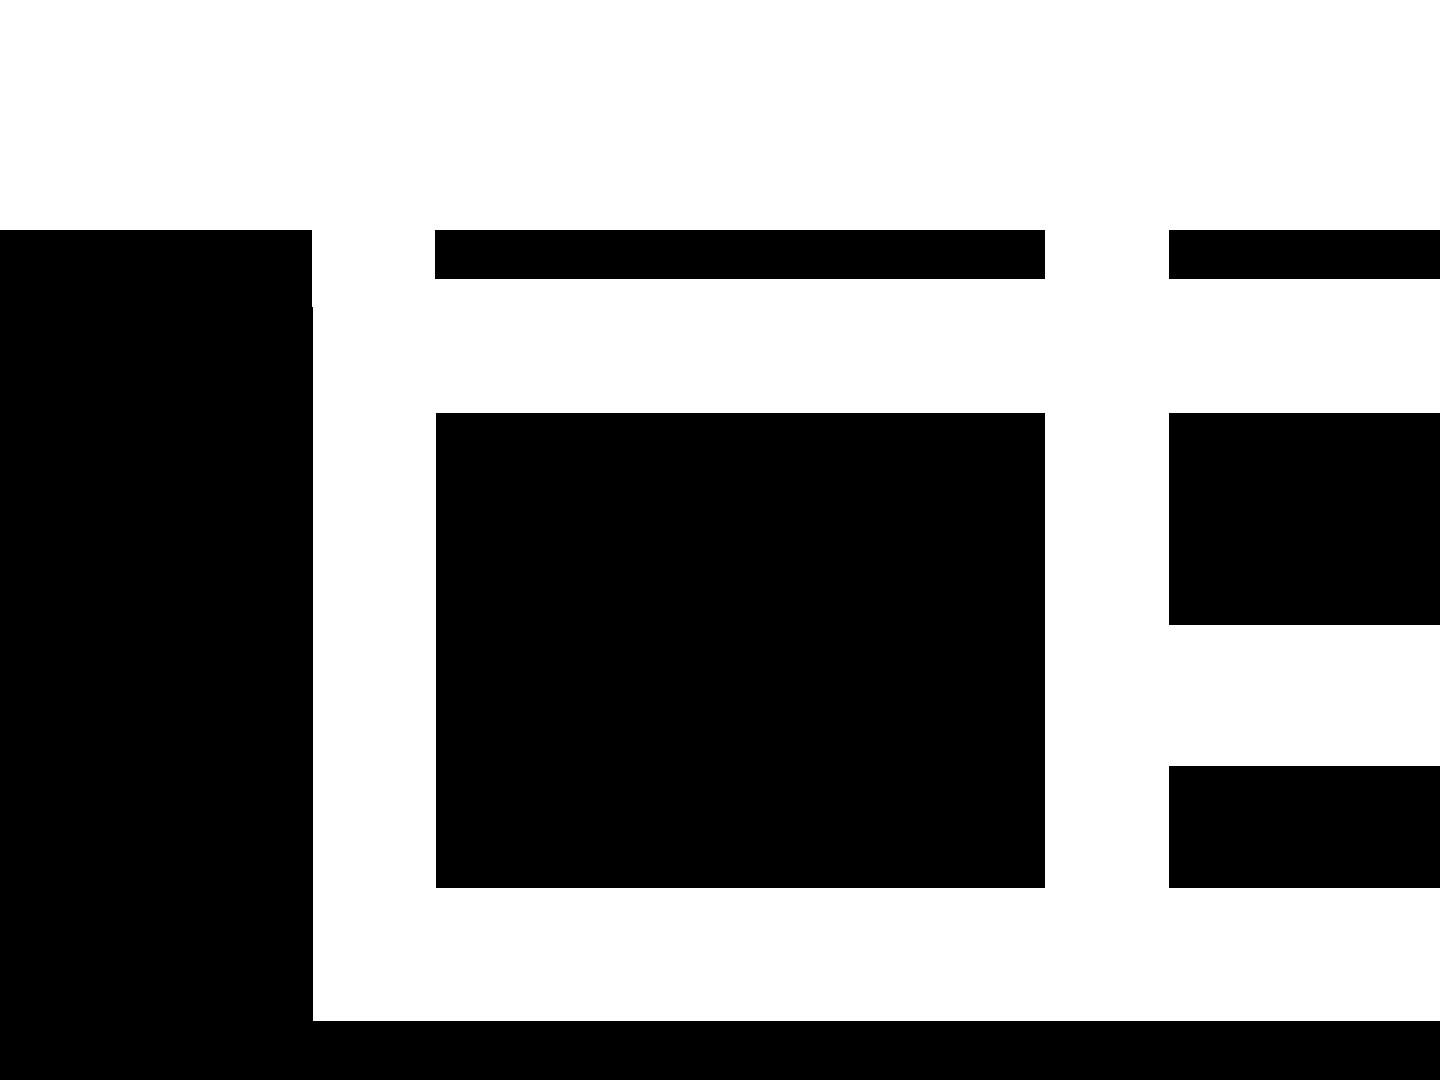
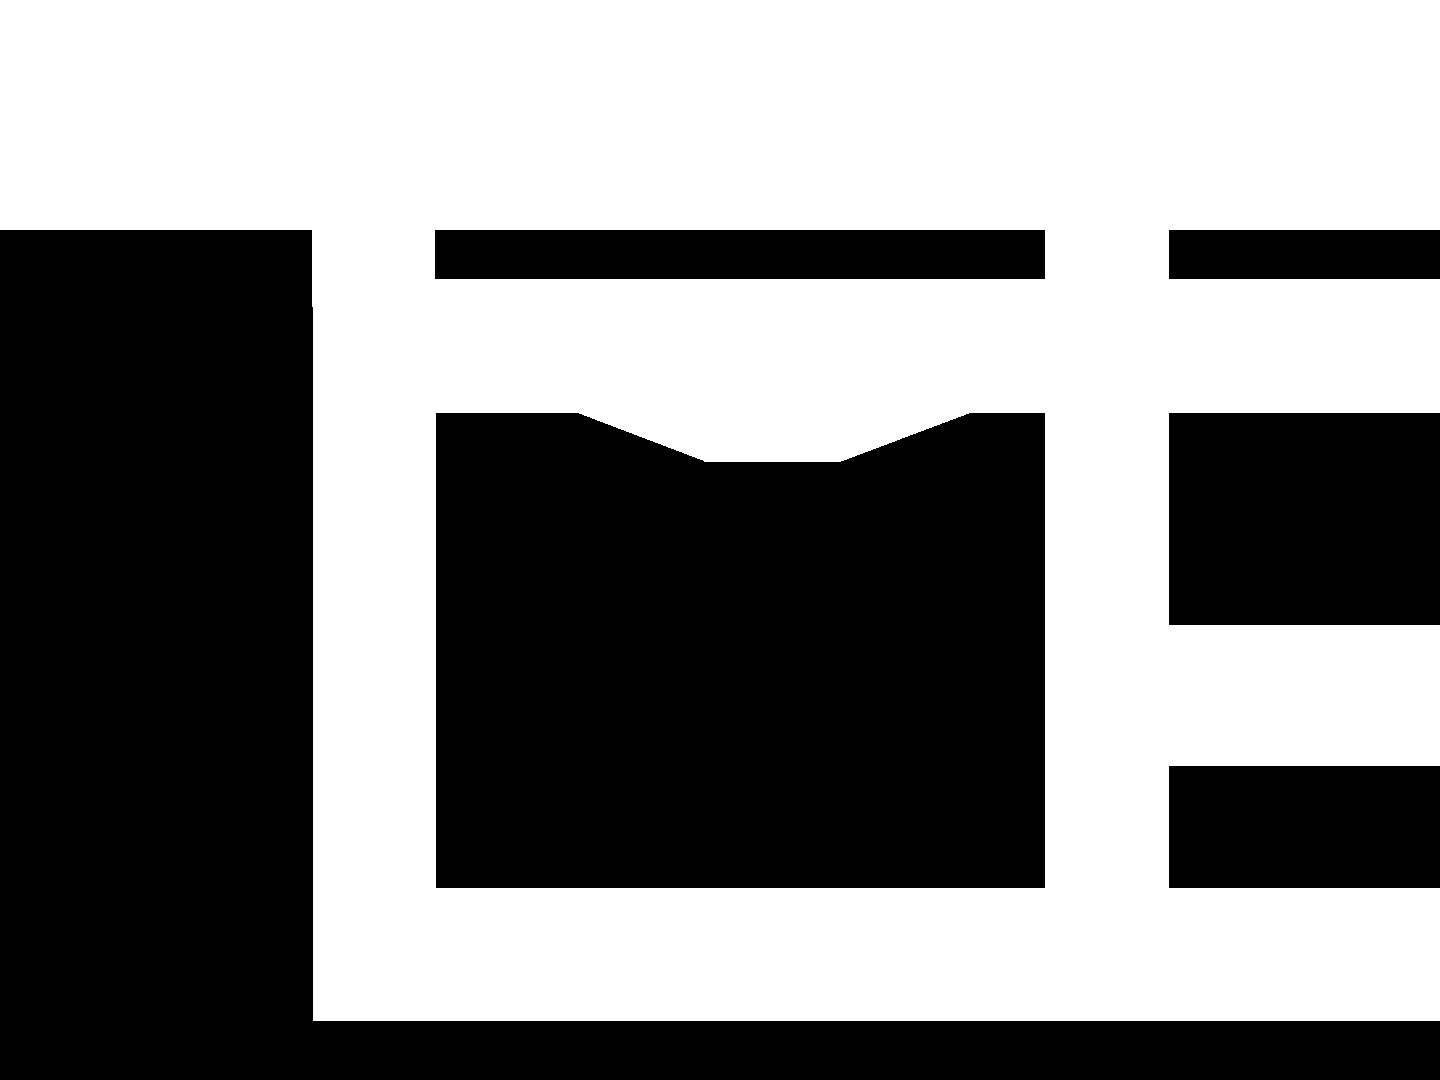
elevators wip

Changed region(s): [[0.4062, 0.3667, 0.6562, 0.4278]]

diff --git a/gold_thief.py b/gold_thief.py
@@ -481,8 +481,8 @@ class Mines(object):
                 r, SpriteName.EXIT, image=Folder.IDLE_IMGS.format(SpriteName.EXIT) + "001.png")
             self.rooms[r]["elevators"] = self.generate_sprites(r, SpriteName.ELEVATOR, standard_speed=ELEVATOR_SPEED)
             self.rooms[r]["all_sprites"] = (
-                self.rooms[r]["ladders"], self.rooms[r]["trucks"], self.rooms[r]["gold_sacks"],
-                self.rooms[r]["wheelbarrows"], self.rooms[r]["miners"], self.rooms[r]["elevator_shafts"])
+                self.rooms[r]["ladders"], self.rooms[r]["elevator_shafts"], self.rooms[r]["trucks"],
+                self.rooms[r]["gold_sacks"], self.rooms[r]["wheelbarrows"], self.rooms[r]["miners"])
             self.rooms[r]["not_player"] = (
                 self.rooms[r]["miners"], self.rooms[r]["gold_sacks"], self.rooms[r]["ladders"], self.rooms[r]["trucks"],
                 self.rooms[r]["wheelbarrows"], self.rooms[r]["elevator_shafts"], self.rooms[r]["elevators"])
@@ -673,6 +673,7 @@ class Sprite(pygame.sprite.Sprite):
         self.expiration_ms = pygame.time.get_ticks() + self.longevity_ms if self.longevity_ms else 0
         self.ignore_screen_boundaries = self.is_truck
         self.stops = stops
+        self.can_climb_slopes = self.name in (SpriteName.PLAYER, SpriteName.MINER)
         if image:
             self.animations = None
             self.image = pygame.image.load(image).convert()
@@ -742,7 +743,7 @@ class Sprite(pygame.sprite.Sprite):
             # Check for wall collision
             if self.collides(mine.layouts):
                 climbed = False
-                if self.is_elevator: print("OUCH!")
+
                 # Check if the sprite has fallen too far
                 if self.fall_pix >= MAX_FALL_PIX and self.can_pass_out:
                     self.pass_out()
@@ -751,7 +752,7 @@ class Sprite(pygame.sprite.Sprite):
                 self.fall_pix = 0 if vertical else self.fall_pix
 
                 # Try climbing up slope
-                if self.is_walking() or self.is_idle():
+                if self.can_climb_slopes and (self.is_walking() or self.is_idle()):
                     for _ in range(CLIMBABLE_PIX):
                         self.rect.move_ip(0, -1)
                         if not self.collides(mine.layouts):
@@ -762,7 +763,7 @@ class Sprite(pygame.sprite.Sprite):
                     else:
                         self.rect.move_ip(0, CLIMBABLE_PIX)
 
-                # Stop the sprite or change direction if impossible to get passed obstacle
+                # Stop the sprite or change direction if impossible to get past obstacle
                 self.rect.move_ip(-(one_pixel * i) if horizontal else 0, -y)
                 if self.is_carrying_gold() and self.is_climbing():
                     activity = Activity.CLIMBING_WITH_GOLD
@@ -780,6 +781,8 @@ class Sprite(pygame.sprite.Sprite):
                     self.h_direction = change_direction(self.h_direction)
                 elif self.is_pushing_wheelbarrow():
                     activity = self.activity
+                elif self.is_elevator:
+                    self.v_direction = change_direction(self.v_direction)
                 else:
                     activity = Activity.WALKING if self.is_miner else Activity.IDLE
                 break
@@ -900,6 +903,10 @@ class Sprite(pygame.sprite.Sprite):
 
         # Move elevators
         if self.is_elevator:
+            stop_points = [range(s-self.standard_speed, s+self.standard_speed) for s in self.stops]
+            stop_the_elevator = any([self.rect.bottom in i for i in stop_points])
+            if stop_the_elevator:
+                print("STOP")
             self.move(self.v_direction)
 
     def update(self, activity=None):

diff --git a/README.md b/README.md
@@ -32,12 +32,16 @@ TODO:
     - [x] Push wheelbarrow
     - [ ] Ride cart   
     - [x] Die if caught by miner 
-    - [ ] Use stun gun (add bonus points!)
-    - [ ] Ride elevator
-        - Make elevator move
-        - Miners can choose to wait for elevators
+    - [ ] Use stun gun (add bonus points!)    
     - [x] Empty gold in truck and collect points
     - [x] Kill miners if hitting with gold sack
+- [ ] Elevators
+    - [x] Make elevator move
+    - [ ] Miners can choose to wait for elevators
+    - [ ] Player and miner must pass out if landing on elevator
+    - [ ] Player and miner must be able to ride elevator
+    - [ ] Player and miner must pass out if hit in the head by elevator
+    - [ ] Elevator must pause at stops
 - [ ] Design lots of mines
 - [ ] More textures
 - [ ] Create more sprites
@@ -61,3 +65,4 @@ TODO:
     
 KNOWN ISSUES
 - [ ] Passed out timer (and other timers) must pause when in pause mode
+- [ ] Wheelbarrow temporarily disappears if player falls while pushing wheelbarrow
